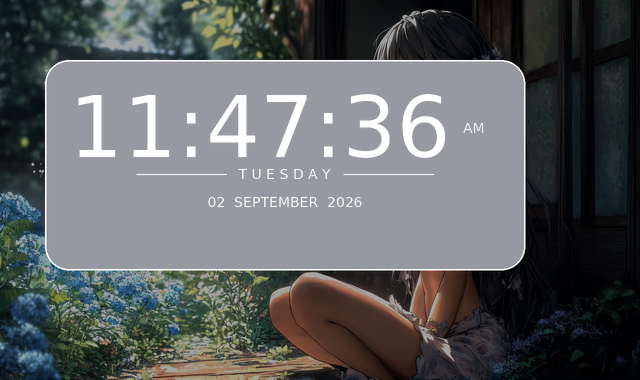
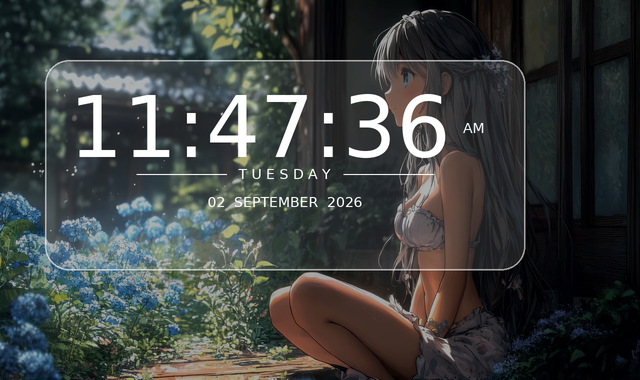
feat: Pure white frosted glass card container and white glass week badge for live wallpapers

diff --git a/clock.html b/clock.html
@@ -2420,16 +2420,16 @@
                 display: flex !important;
                 flex-direction: column !important;
                 align-items: center !important;
-                background: rgba(12, 20, 34, 0.35) !important;
-                border: 1.5px solid rgba(255, 255, 255, 0.40) !important;
-                backdrop-filter: blur(18px) !important;
-                -webkit-backdrop-filter: blur(18px) !important;
+                background: rgba(255, 255, 255, 0.16) !important;
+                border: 1.5px solid rgba(255, 255, 255, 0.65) !important;
+                backdrop-filter: blur(22px) saturate(160%) !important;
+                -webkit-backdrop-filter: blur(22px) saturate(160%) !important;
                 border-radius: 28px !important;
                 padding: clamp(18px, 2.5vw, 32px) clamp(24px, 3.2vw, 48px) !important;
                 box-shadow: 
-                    0 16px 48px rgba(0, 0, 0, 0.45),
-                    inset 0 1.5px 0 rgba(255, 255, 255, 0.30),
-                    0 0 35px rgba(186, 230, 253, 0.15) !important;
+                    0 16px 48px rgba(0, 0, 0, 0.25),
+                    inset 0 2px 0 rgba(255, 255, 255, 0.60),
+                    0 0 35px rgba(255, 255, 255, 0.25) !important;
                 gap: 0px !important;
             }
 
@@ -2627,18 +2627,18 @@
                 padding: 6px 22px;
                 margin-top: 10px;
                 border-radius: 24px;
-                background: rgba(255, 255, 255, 0.08);
-                border: 1.2px solid rgba(255, 255, 255, 0.45);
-                backdrop-filter: blur(12px);
-                -webkit-backdrop-filter: blur(12px);
-                box-shadow: 0 6px 20px rgba(0, 0, 0, 0.35), inset 0 1px 0 rgba(255, 255, 255, 0.30);
+                background: rgba(255, 255, 255, 0.22) !important;
+                border: 1.5px solid rgba(255, 255, 255, 0.70) !important;
+                backdrop-filter: blur(14px) !important;
+                -webkit-backdrop-filter: blur(14px) !important;
+                box-shadow: 0 6px 20px rgba(0, 0, 0, 0.20), inset 0 1px 0 rgba(255, 255, 255, 0.50) !important;
                 font-family: 'Outfit', 'Inter', sans-serif;
                 font-size: clamp(11px, 1.3vw, 16px);
-                font-weight: 400;
+                font-weight: 500;
                 letter-spacing: 0.35em;
-                color: #ffffff;
+                color: #ffffff !important;
                 text-transform: uppercase;
-                text-shadow: 0 0 14px rgba(255, 255, 255, 0.85);
+                text-shadow: 0 0 14px rgba(255, 255, 255, 0.90);
             }
 
             .theme-glass_ganesha .glass-colon {

diff --git a/index.html b/index.html
@@ -2420,16 +2420,16 @@
                 display: flex !important;
                 flex-direction: column !important;
                 align-items: center !important;
-                background: rgba(12, 20, 34, 0.35) !important;
-                border: 1.5px solid rgba(255, 255, 255, 0.40) !important;
-                backdrop-filter: blur(18px) !important;
-                -webkit-backdrop-filter: blur(18px) !important;
+                background: rgba(255, 255, 255, 0.16) !important;
+                border: 1.5px solid rgba(255, 255, 255, 0.65) !important;
+                backdrop-filter: blur(22px) saturate(160%) !important;
+                -webkit-backdrop-filter: blur(22px) saturate(160%) !important;
                 border-radius: 28px !important;
                 padding: clamp(18px, 2.5vw, 32px) clamp(24px, 3.2vw, 48px) !important;
                 box-shadow: 
-                    0 16px 48px rgba(0, 0, 0, 0.45),
-                    inset 0 1.5px 0 rgba(255, 255, 255, 0.30),
-                    0 0 35px rgba(186, 230, 253, 0.15) !important;
+                    0 16px 48px rgba(0, 0, 0, 0.25),
+                    inset 0 2px 0 rgba(255, 255, 255, 0.60),
+                    0 0 35px rgba(255, 255, 255, 0.25) !important;
                 gap: 0px !important;
             }
 
@@ -2627,18 +2627,18 @@
                 padding: 6px 22px;
                 margin-top: 10px;
                 border-radius: 24px;
-                background: rgba(255, 255, 255, 0.08);
-                border: 1.2px solid rgba(255, 255, 255, 0.45);
-                backdrop-filter: blur(12px);
-                -webkit-backdrop-filter: blur(12px);
-                box-shadow: 0 6px 20px rgba(0, 0, 0, 0.35), inset 0 1px 0 rgba(255, 255, 255, 0.30);
+                background: rgba(255, 255, 255, 0.22) !important;
+                border: 1.5px solid rgba(255, 255, 255, 0.70) !important;
+                backdrop-filter: blur(14px) !important;
+                -webkit-backdrop-filter: blur(14px) !important;
+                box-shadow: 0 6px 20px rgba(0, 0, 0, 0.20), inset 0 1px 0 rgba(255, 255, 255, 0.50) !important;
                 font-family: 'Outfit', 'Inter', sans-serif;
                 font-size: clamp(11px, 1.3vw, 16px);
-                font-weight: 400;
+                font-weight: 500;
                 letter-spacing: 0.35em;
-                color: #ffffff;
+                color: #ffffff !important;
                 text-transform: uppercase;
-                text-shadow: 0 0 14px rgba(255, 255, 255, 0.85);
+                text-shadow: 0 0 14px rgba(255, 255, 255, 0.90);
             }
 
             .theme-glass_ganesha .glass-colon {

diff --git a/mobile/app/src/main/assets/index.html b/mobile/app/src/main/assets/index.html
@@ -2420,16 +2420,16 @@
                 display: flex !important;
                 flex-direction: column !important;
                 align-items: center !important;
-                background: rgba(12, 20, 34, 0.35) !important;
-                border: 1.5px solid rgba(255, 255, 255, 0.40) !important;
-                backdrop-filter: blur(18px) !important;
-                -webkit-backdrop-filter: blur(18px) !important;
+                background: rgba(255, 255, 255, 0.16) !important;
+                border: 1.5px solid rgba(255, 255, 255, 0.65) !important;
+                backdrop-filter: blur(22px) saturate(160%) !important;
+                -webkit-backdrop-filter: blur(22px) saturate(160%) !important;
                 border-radius: 28px !important;
                 padding: clamp(18px, 2.5vw, 32px) clamp(24px, 3.2vw, 48px) !important;
                 box-shadow: 
-                    0 16px 48px rgba(0, 0, 0, 0.45),
-                    inset 0 1.5px 0 rgba(255, 255, 255, 0.30),
-                    0 0 35px rgba(186, 230, 253, 0.15) !important;
+                    0 16px 48px rgba(0, 0, 0, 0.25),
+                    inset 0 2px 0 rgba(255, 255, 255, 0.60),
+                    0 0 35px rgba(255, 255, 255, 0.25) !important;
                 gap: 0px !important;
             }
 
@@ -2627,18 +2627,18 @@
                 padding: 6px 22px;
                 margin-top: 10px;
                 border-radius: 24px;
-                background: rgba(255, 255, 255, 0.08);
-                border: 1.2px solid rgba(255, 255, 255, 0.45);
-                backdrop-filter: blur(12px);
-                -webkit-backdrop-filter: blur(12px);
-                box-shadow: 0 6px 20px rgba(0, 0, 0, 0.35), inset 0 1px 0 rgba(255, 255, 255, 0.30);
+                background: rgba(255, 255, 255, 0.22) !important;
+                border: 1.5px solid rgba(255, 255, 255, 0.70) !important;
+                backdrop-filter: blur(14px) !important;
+                -webkit-backdrop-filter: blur(14px) !important;
+                box-shadow: 0 6px 20px rgba(0, 0, 0, 0.20), inset 0 1px 0 rgba(255, 255, 255, 0.50) !important;
                 font-family: 'Outfit', 'Inter', sans-serif;
                 font-size: clamp(11px, 1.3vw, 16px);
-                font-weight: 400;
+                font-weight: 500;
                 letter-spacing: 0.35em;
-                color: #ffffff;
+                color: #ffffff !important;
                 text-transform: uppercase;
-                text-shadow: 0 0 14px rgba(255, 255, 255, 0.85);
+                text-shadow: 0 0 14px rgba(255, 255, 255, 0.90);
             }
 
             .theme-glass_ganesha .glass-colon {

diff --git a/generate_theme_screenshots.py b/generate_theme_screenshots.py
@@ -527,8 +527,12 @@ def render_theme_screenshot(theme_key, theme_info, output_dir="assets"):
             card_y = int(60 * scale)
             card_r = int(24 * scale)
 
-            # Draw translucent glass card box
-            draw.rounded_rectangle([card_x, card_y, card_x + card_w, card_y + card_h], radius=card_r, fill=(12, 20, 34, 110), outline=(255, 255, 255, 120), width=int(1.5 * scale))
+            # Draw translucent white glass card box with proper alpha blending
+            glass_overlay = Image.new("RGBA", (w, h), (0, 0, 0, 0))
+            gdraw = ImageDraw.Draw(glass_overlay)
+            gdraw.rounded_rectangle([card_x, card_y, card_x + card_w, card_y + card_h], radius=card_r, fill=(255, 255, 255, 30), outline=(255, 255, 255, 160), width=int(1.8 * scale))
+            img = Image.alpha_composite(img.convert("RGBA"), glass_overlay).convert("RGB")
+            draw = ImageDraw.Draw(img)
 
             # Digits inside glass card box
             full_time_str = "11:47:36"
